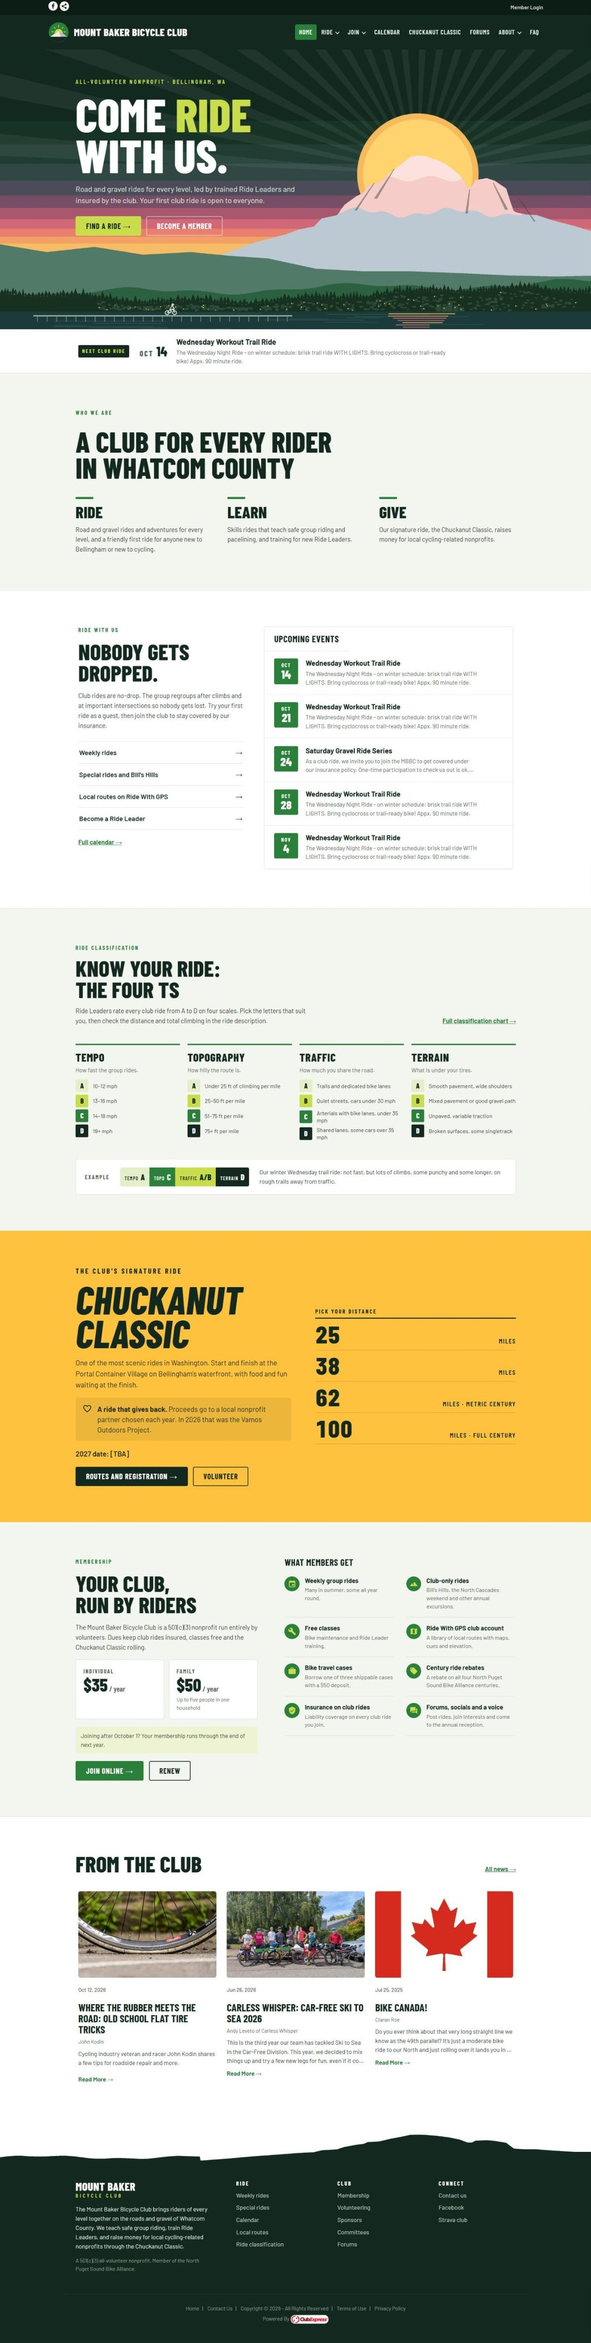
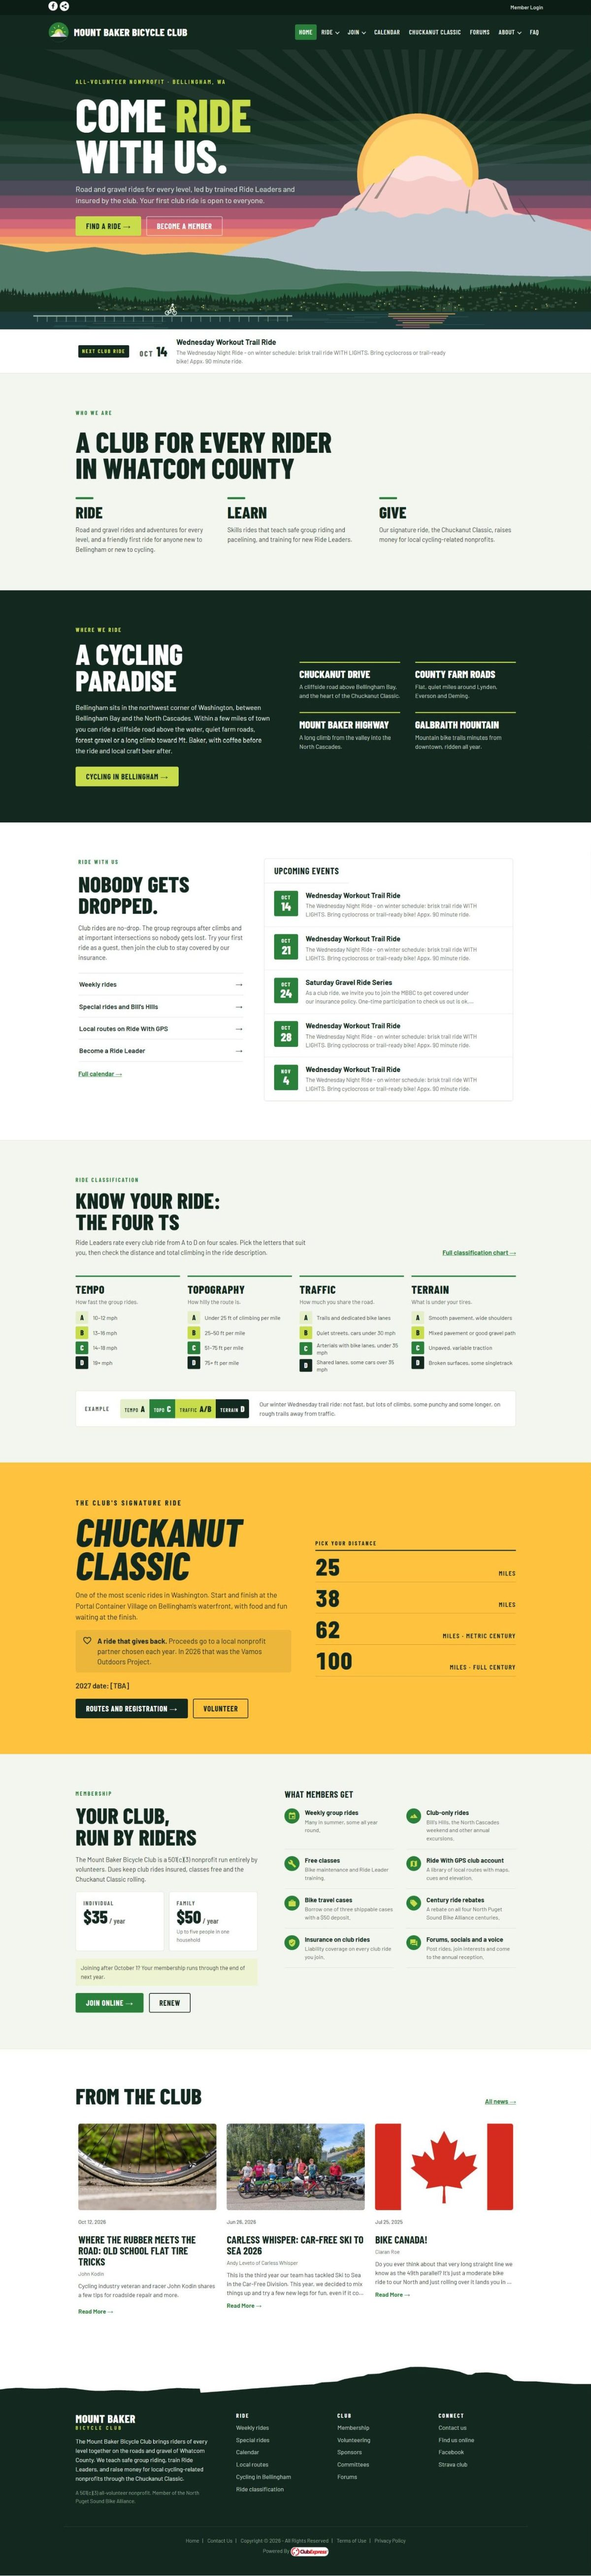
Add Bellingham as a cycling paradise and refresh the screenshots
New section 5 compares today's Local Cycling Resources page with the
rewritten Cycling in Bellingham page, and the homepage tour gains the
Where we ride band. The homepage, Weekly Rides and Find us online shots
are retaken from staged version #23, whose footer links both new pages.

diff --git a/index.html b/index.html
@@ -399,11 +399,12 @@
     </div>
   </section>
 
-  <ol class="toc" aria-label="The four biggest changes">
+  <ol class="toc" aria-label="The five biggest changes">
     <li><a href="#homepage"><span class="num">1</span>The homepage</a></li>
     <li><a href="#calendar"><span class="num">2</span>The calendar</a></li>
     <li><a href="#weekly-rides"><span class="num">3</span>Weekly rides</a></li>
     <li><a href="#find-us-online"><span class="num">4</span>Find us online</a></li>
+    <li><a href="#bellingham"><span class="num">5</span>Cycling in Bellingham</a></li>
   </ol>
 
   <section class="change" id="homepage" aria-labelledby="h-homepage">
@@ -416,12 +417,13 @@
       <li><span class="num">1</span><span><b>Come ride with us.</b> Mt. Baker at sunrise, with buttons to find a ride or become a member.</span></li>
       <li><span class="num">2</span><span><b>Next club ride</b>, pulled from the calendar automatically.</span></li>
       <li><span class="num">3</span><span><b>Who we are:</b> Ride · Learn · Give.</span></li>
-      <li><span class="num">4</span><span><b>Ride with us:</b> club rides are no-drop and guests are welcome, next to the upcoming club events.</span></li>
-      <li><span class="num">5</span><span><b>The Four Ts</b> ride ratings, explained right on the homepage.</span></li>
-      <li><span class="num">6</span><span><b>The Chuckanut Classic</b>, and where the money goes.</span></li>
-      <li><span class="num">7</span><span><b>Membership:</b> what dues pay for and what members get.</span></li>
-      <li><span class="num">8</span><span><b>Club news.</b></span></li>
-      <li><span class="num">9</span><span><b>A new footer</b> on every page, with the club's purpose and quick links.</span></li>
+      <li><span class="num">4</span><span><b>Where we ride:</b> Bellingham as a cycling paradise, from Chuckanut Drive to Galbraith.</span></li>
+      <li><span class="num">5</span><span><b>Ride with us:</b> club rides are no-drop and guests are welcome, next to the upcoming club events.</span></li>
+      <li><span class="num">6</span><span><b>The Four Ts</b> ride ratings, explained right on the homepage.</span></li>
+      <li><span class="num">7</span><span><b>The Chuckanut Classic</b>, and where the money goes.</span></li>
+      <li><span class="num">8</span><span><b>Membership:</b> what dues pay for and what members get.</span></li>
+      <li><span class="num">9</span><span><b>Club news.</b></span></li>
+      <li><span class="num">10</span><span><b>A new footer</b> on every page, with the club's purpose and quick links.</span></li>
     </ol>
 
     <div class="compare">
@@ -432,16 +434,17 @@
       <figure class="shot">
         <figcaption><span class="tag tag-new">Proposed</span>The whole homepage</figcaption>
         <div class="frame">
-          <a href="img/home-after.jpg"><img src="img/home-after.jpg" width="1200" height="4755" alt="The proposed homepage, top to bottom: a fir-green header, a hero of Mt. Baker at sunrise reading Come ride with us, the next club ride, Who we are, Ride with us beside upcoming club events, the Four Ts ride ratings, a sun-yellow Chuckanut Classic band, membership, club news and a dark green footer."></a>
-          <span class="num marker" style="top: 5%">1</span>
-          <span class="num marker" style="top: 15.3%">2</span>
-          <span class="num marker" style="top: 17.8%">3</span>
-          <span class="num marker" style="top: 27.4%">4</span>
-          <span class="num marker" style="top: 40%">5</span>
-          <span class="num marker" style="top: 54.4%">6</span>
-          <span class="num marker" style="top: 66.8%">7</span>
-          <span class="num marker" style="top: 79.2%">8</span>
-          <span class="num marker" style="top: 93.6%">9</span>
+          <a href="img/home-after.jpg"><img src="img/home-after.jpg" width="1200" height="5226" alt="The proposed homepage, top to bottom: a fir-green header, a hero of Mt. Baker at sunrise reading Come ride with us, the next club ride, Who we are, a dark green Where we ride band, Ride with us beside upcoming club events, the Four Ts ride ratings, a sun-yellow Chuckanut Classic band, membership, club news and a dark green footer."></a>
+          <span class="num marker" style="top: 4.4%">1</span>
+          <span class="num marker" style="top: 14%">2</span>
+          <span class="num marker" style="top: 16%">3</span>
+          <span class="num marker" style="top: 24.4%">4</span>
+          <span class="num marker" style="top: 34.5%">5</span>
+          <span class="num marker" style="top: 45.4%">6</span>
+          <span class="num marker" style="top: 58.2%">7</span>
+          <span class="num marker" style="top: 69.6%">8</span>
+          <span class="num marker" style="top: 80.7%">9</span>
+          <span class="num marker" style="top: 94.6%">10</span>
         </div>
       </figure>
     </div>
@@ -513,12 +516,29 @@
   <section class="change" id="find-us-online" aria-labelledby="h-find-us-online">
     <div class="change-head">
       <h2 id="h-find-us-online"><span class="num">4</span>One place for our online channels</h2>
-      <p>Our Facebook pages, Strava club, route library and kit store are linked here and there, or not at all. A new <b>Find us online</b> page under About gathers them in one place and says what each one is for.</p>
+      <p>Our Facebook pages, Strava club, route library and kit store are linked here and there, or not at all. A new <b>Find us online</b> page under About gathers them in one place and says what each one is for, and the footer on every page links to it.</p>
     </div>
     <div class="compare compare-single">
       <figure class="shot">
         <figcaption><span class="tag tag-new">New page</span>Find us online</figcaption>
-        <a class="frame" href="img/online-after.jpg"><img src="img/online-after.jpg" width="1200" height="1232" loading="lazy" alt="The proposed Find us online page: cards for the club's Facebook page, Strava club and RideWithGPS route library, the Chuckanut Classic's Facebook page and routes, and the Podiumwear team store."></a>
+        <a class="frame" href="img/online-after.jpg"><img src="img/online-after.jpg" width="1200" height="1500" loading="lazy" alt="The proposed Find us online page: cards for the club's Facebook page, Strava club and RideWithGPS route library, the Chuckanut Classic's Facebook page and routes, and the Podiumwear team store."></a>
+      </figure>
+    </div>
+  </section>
+
+  <section class="change" id="bellingham" aria-labelledby="h-bellingham">
+    <div class="change-head">
+      <h2 id="h-bellingham"><span class="num">5</span>Bellingham, a cycling paradise</h2>
+      <p>The club grew out of a love of riding here, and the old site said so: it called Bellingham "a veritable cycling paradise" and gave it a page. The new homepage brings that back in a <b>Where we ride</b> band, and the page itself is rewritten as <b>Cycling in Bellingham</b>: where to ride, the bike shops, the groups that make this a great place to ride, and a hello for newcomers.</p>
+    </div>
+    <div class="compare">
+      <figure class="shot">
+        <figcaption><span class="tag">Today</span>Local Cycling Resources</figcaption>
+        <a class="frame" href="img/bellingham-before.jpg"><img src="img/bellingham-before.jpg" width="1200" height="1322" loading="lazy" alt="Today's Local Cycling Resources page: headings A Cycling Mecca, Bike shops galore, A supportive cycling community and Where can I ride, each followed by paragraphs of text with inline links."></a>
+      </figure>
+      <figure class="shot">
+        <figcaption><span class="tag tag-new">Proposed</span>Cycling in Bellingham</figcaption>
+        <a class="frame" href="img/bellingham-after.jpg"><img src="img/bellingham-after.jpg" width="1200" height="1500" loading="lazy" alt="The proposed Cycling in Bellingham page, headed A cycling paradise: cards for where to ride, the local bike shops as buttons, four cards on the cycling community, and a New here? Say hello box with a Contact us button."></a>
       </figure>
     </div>
   </section>
